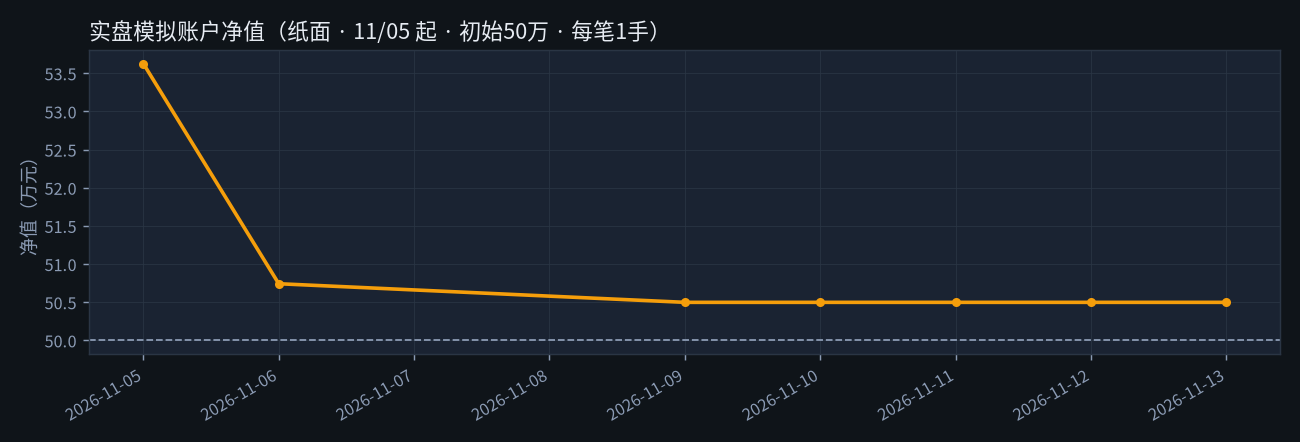
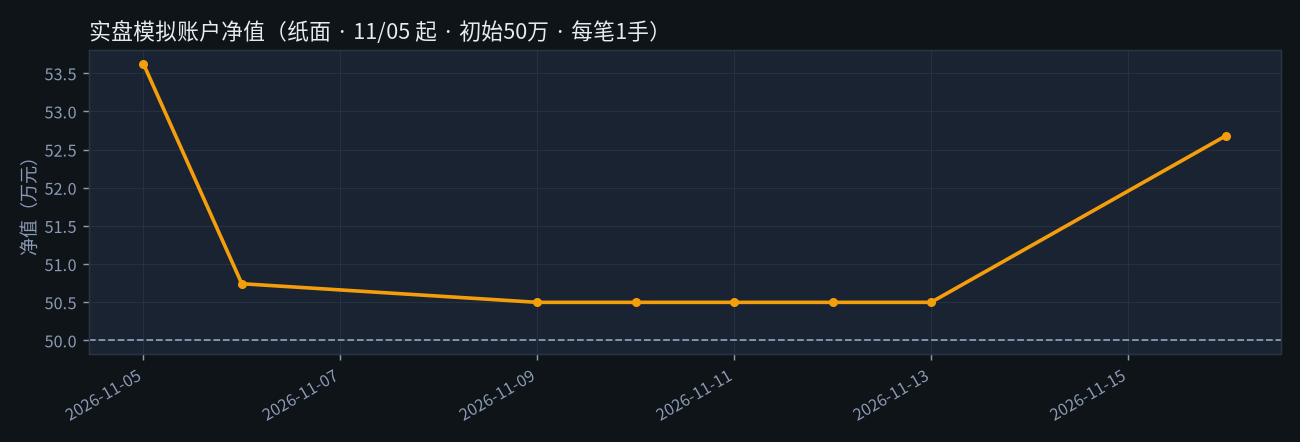
daily: 2026-11-16

diff --git a/reports/2026-11-16.html b/reports/2026-11-16.html
@@ -1,0 +1,186 @@
+<!doctype html>
+<html lang="zh-CN"><head><meta charset="utf-8"><meta name="viewport" content="width=device-width,initial-scale=1">
+<title>2026-11-16 · 股指期货量化系统每日复盘</title>
+<style>:root{
+  --bg:#0f1419;--card:#1a2332;--border:#2a3544;--text:#e7ecf3;--muted:#8b9bb4;
+  --accent:#3b82f6;--ok:#22c55e;--ok-bg:#12261c;--ok-bd:#1e4d36;
+  --watch:#f59e0b;--watch-bg:#2a2110;--watch-bd:#5c4518;
+  --danger:#ef4444;--table-head:#151c27;
+}
+*{box-sizing:border-box}
+body{
+  margin:0;font-family:-apple-system,BlinkMacSystemFont,"Segoe UI","PingFang SC","Hiragino Sans GB","Microsoft YaHei",sans-serif;
+  background:var(--bg);color:var(--text);line-height:1.65;font-size:15.5px;
+}
+.wrap{max-width:820px;margin:0 auto;padding:24px 16px 56px}
+a{color:var(--accent)}
+.topnav{margin-bottom:18px;font-size:.9rem}
+.topnav a{text-decoration:none}
+header h1{font-size:1.45rem;margin:0 0 6px;font-weight:700}
+header .sub{color:var(--muted);margin:0 0 14px;font-size:.92rem}
+.badge{
+  display:inline-block;padding:3px 10px;border-radius:999px;font-size:.78rem;font-weight:650;
+  background:#1e3a5f;color:#93c5fd;margin-right:6px;
+}
+.disclaimer{
+  padding:12px 14px;border:1px solid var(--border);border-radius:10px;
+  background:#151c27;color:var(--muted);font-size:.88rem;margin-bottom:28px;
+}
+h2{
+  font-size:1.12rem;margin:32px 0 12px;padding-bottom:8px;
+  border-bottom:1px solid var(--border);font-weight:700;
+}
+h3{font-size:1rem;margin:20px 0 10px;font-weight:650}
+p,li{color:var(--text)}
+.muted{color:var(--muted)}
+.lead{font-size:.98rem;margin:0 0 16px}
+table{
+  width:100%;border-collapse:collapse;font-size:.9rem;margin:10px 0 16px;
+  background:var(--card);border-radius:10px;overflow:hidden;border:1px solid var(--border);
+}
+th,td{padding:10px 12px;text-align:left;border-bottom:1px solid var(--border);vertical-align:top}
+th{background:var(--table-head);color:var(--muted);font-weight:600;white-space:nowrap}
+tr:last-child td{border-bottom:none}
+td.num,th.num{text-align:right;font-variant-numeric:tabular-nums}
+.chart{
+  display:block;width:100%;max-width:100%;height:auto;border-radius:12px;
+  border:1px solid var(--border);margin:12px 0 8px;background:#111;
+}
+.cap{font-size:.8rem;color:var(--muted);margin:0 0 18px}
+.grid{display:grid;gap:14px}
+@media(min-width:640px){.grid-2{grid-template-columns:1fr 1fr}}
+.cmd{
+  border-radius:14px;padding:16px 16px 14px;border:1px solid var(--border);
+  background:var(--card);margin-bottom:14px;
+}
+.cmd.open{border-color:var(--ok-bd);background:linear-gradient(180deg,var(--ok-bg),var(--card))}
+.cmd.watch{border-color:var(--watch-bd);background:linear-gradient(180deg,var(--watch-bg),var(--card))}
+.cmd .head{display:flex;flex-wrap:wrap;align-items:center;gap:8px;margin-bottom:10px}
+.cmd .name{font-size:1.05rem;font-weight:700;margin:0}
+.pill{
+  font-size:.72rem;font-weight:700;padding:3px 8px;border-radius:999px;letter-spacing:.02em;
+}
+.pill.open{background:#14532d;color:#86efac}
+.pill.watch{background:#78350f;color:#fcd34d}
+.pill.alt{background:#1e3a5f;color:#93c5fd}
+.kv{width:100%;border:none;background:transparent;margin:0}
+.kv th,.kv td{border:none;border-bottom:1px dashed #2a3544;padding:8px 0;background:transparent}
+.kv th{width:5.5em;color:var(--muted);font-weight:600}
+.kv tr:last-child th,.kv tr:last-child td{border-bottom:none}
+.rules{
+  padding:14px 16px;border-radius:12px;border:1px solid var(--border);
+  background:var(--card);margin:10px 0;
+}
+.rules ul{margin:8px 0 0;padding-left:1.2em}
+.rules li{margin:6px 0}
+.evidence{
+  padding:14px 16px;border-radius:12px;border:1px solid #1e3a5f;
+  background:#121a28;margin:12px 0 18px;
+}
+.evidence h3{margin-top:0}
+footer{margin-top:36px;padding-top:14px;border-top:1px solid var(--border);color:var(--muted);font-size:.8rem}
+.strong{font-weight:650;color:#fff}
+.list{display:flex;flex-direction:column;gap:12px}
+.card{display:block;padding:16px 18px;border:1px solid var(--border);border-radius:12px;background:var(--card);text-decoration:none;color:inherit}
+.card:hover{border-color:var(--accent)}
+.card .date{font-size:.82rem;color:var(--accent);font-weight:600;margin-bottom:4px}
+.card .title{font-size:1.05rem;font-weight:650;margin:0 0 6px;border:none;padding:0}
+.card .meta{font-size:.88rem;color:var(--muted);margin:0}
+.tag{display:inline-block;font-size:.72rem;padding:2px 8px;border-radius:999px;background:#1e3a2f;color:#86efac;margin-left:8px}
+table{display:table}
+@media(max-width:600px){table{font-size:.82rem}th,td{padding:8px 6px}}
+</style></head><body><div class="wrap">
+<div class="topnav"><a href="../index.html">← 复盘首页</a></div>
+<header><h1>股指期货量化系统 · 每日复盘</h1>
+<p class="sub">交易日 <strong>2026-11-16（周一）</strong> · 下一交易日 <strong>2026-11-17（周二）</strong></p>
+<span class="badge">主策略 PF-K（IM）</span><span class="badge">纸面模拟账户运行中</span></header>
+<div class="disclaimer"><strong>免责声明</strong>：独立量化系统的研究复盘，仅供参考学习，不构成投资建议，不代下单。期货有杠杆，可能亏损超过预期，行动与盈亏由你本人承担。</div>
+
+<div class="cmd watch"><div class="head"><span class="pill watch">明日指令</span><h3 class="name">明天（2026-11-17（周二））继续持有 空单，不加仓</h3></div>
+<table class="kv"><tbody>
+<tr><th>持仓</th><td>空 1 手，2026-11-16 开盘 6215.0 成交</td></tr>
+<tr><th>止损价</th><td><strong>6537.2</strong>（盘中触及即平）</td></tr>
+<tr><th>今日浮动</th><td>+110.0 点（约 +2.20 万元/手，未扣费）</td></tr>
+<tr><th>最晚平仓</th><td>已持 1 天；最晚 <strong>2026-11-18（周三） 收盘前</strong> 平仓</td></tr></tbody></table></div>
+
+<h2>一、今天发生了什么</h2>
+<p class="lead">IM（中证1000股指期货主连）今天开 6215.0、最高 6226.8、最低 6083.2、收 <strong>6105.0</strong>，
+比昨天收盘 6276.8 <strong>跌 171.8 点（-2.74%）</strong>。开盘相对昨收 低开 61.8 点，盘中震荡走低，收阴线。</p>
+<div class="rules"><ul><li>今天开盘按昨天的信号空 1 手，成交 6215.0，止损 6537.2。</li></ul></div>
+<img class="chart" src="../assets/2026-11-16/im_price_z.png" alt="IM 近100日K线与zSAS">
+<p class="cap">上：IM 近 100 个交易日 K 线和系统历史开平仓点；下：每日 zSAS，越过虚线就出信号。</p>
+
+<h2>二、为什么出这个信号（白话版）</h2>
+<p>今天收盘后算出 <strong>zSAS = -0.89</strong>，在 ±1.25 之间，不触发。</p>
+<div class="rules"><ul>
+<li><b>它在看什么</b>：今天这根K线的涨跌，相对「平时一天能波动多少」（ATR）有多猛；同时扣掉「开盘跳空」那部分——靠隔夜跳空涨上去的不算数，盘中一路买上去的才算。</li>
+<li><b>怎么算</b>：SAS = 0.55 × 今日涨跌幅/ATR比例 − 0.35 × 异常跳空；再和过去 60 天比，变成 zSAS（高出平时几个标准差）。</li>
+<li><b>怎么用</b>：zSAS ≥ +1.25 → 今天涨得「比平常猛得多」且不是靠跳空 → 系统认为短期惯性会延续，次日开盘做多；≤ −1.25 反过来做空；中间不动。</li>
+<li><b>今天</b>：开盘只低开 61.8 点，涨幅主要是盘中走出来的，所以 zSAS 很高。</li>
+</ul></div>
+
+<h2>三、明天具体怎么挂单</h2>
+<p>规则只有一条：<b>次日开盘价成交</b>。所以明早 9:25 集合竞价或 9:30 开盘用市价/对价跟进即可；止损价按你的<b>实际成交价</b>算。</p>
+<p class="muted">明天没有新开仓指令。</p>
+<div class="evidence"><h3>执行提醒（执行建议，未回测）</h3><ul>
+<li>只在开盘这一刻跟；<b>开盘没成交就放弃本笔，不在盘中追高/追低挂天价单</b>。回测只验证过「开盘价成交」。</li>
+<li>止损单可在成交后立刻挂条件单（多单：最新价 ≤ 止损价 触发卖出平仓）。若开盘就跳空越过止损，按开盘价离场（回测同样处理）。</li>
+<li>第3天收盘前没止损，就在尾盘平掉；中间不加仓、不移动止损。</li>
+</ul></div>
+
+<h2>四、实盘模拟账户（11/5起）<span class="sub" style="font-size:.8em;font-weight:400"> · 纸面记账 · 初始50万 · 每笔1手</span></h2>
+<img class="chart" src="../assets/2026-11-16/ledger.png" alt="纸面账户净值曲线">
+<table><tbody>
+<tr><td>当前净值</td><td class="num"><strong>526,844 元</strong></td><td>收益率 <strong>+5.37%</strong> · 最大回撤 -5.83%</td></tr>
+<tr><td>已实现 / 浮动盈亏</td><td class="num">+4,981 / +21,863 元</td><td>已平仓 1 笔 · 胜率 100% · 已付费用滑点约 139 元</td></tr>
+</tbody></table>
+<table><thead><tr><th>状态</th><th>方向</th><th>开仓日/价</th><th>平仓日/价</th><th class="num">费用滑点(点)</th><th class="num">净盈亏(元)</th><th>说明</th></tr></thead><tbody>
+<tr><td>已平仓</td><td>多</td><td>2026-11-05 / 6423.0</td><td>2026-11-09 / 6448.6</td><td class="num">0.7</td><td class="num">+4,981</td><td>时间退出</td></tr>
+<tr><td>持仓中</td><td>空</td><td>2026-11-16 / 6215.0</td><td>未平（今收 6105.0，止损 6537.2）</td><td class="num">0.7</td><td class="num">+21,863</td><td>已持1天/最多3天</td></tr>
+</tbody></table>
+<p class="cap">口径：只跟主策略 PF-K（IM，每笔 1 手）。成交价=日线开盘价/止损价/第3天收盘价；费用=开·平昨万0.23（平今万2.3）+ 往返滑点0.4点；持仓中的浮盈已预扣平仓费用。纸面记账，非真实成交。</p>
+
+<h2>五、历史成绩（样本外，费后）</h2>
+<img class="chart" src="../assets/2026-11-16/oos_equity.png" alt="样本外权益 vs 中证1000">
+<p class="cap">「样本外」= 2025-06-03 之后的数据，参数是在那之前就定死的，这段相当于「模拟实战」。图为 2手/100万 口径累计收益率，对比同期中证1000指数。</p>
+
+<table><thead><tr><th>指标（样本外 2025-06-03 → 2026-11-16，费后）</th><th class="num">回测口径 2手/100万</th><th class="num">重算 1手/50万</th></tr></thead><tbody>
+<tr><td>交易笔数 / 胜率</td><td class="num">45 笔 / 62.2%</td><td class="num">45 笔 / 62.2%</td></tr>
+<tr><td>累计盈利</td><td class="num">+49.0 万元</td><td class="num">+24.5 万元</td></tr>
+<tr><td>策略年化（单利口径）</td><td class="num">+33.7%</td><td class="num">+33.7%</td></tr>
+<tr><td>中证1000 同期年化</td><td class="num">+1.1%</td><td class="num">+1.1%</td></tr>
+<tr><td><strong>超额年化</strong>（策略−指数）</td><td class="num"><strong>+32.6%</strong></td><td class="num">+32.6%</td></tr>
+<tr><td>2025年（6/3起）：策略 / 指数 / 超额</td><td class="num" colspan="2">+33.6% / +25.1% / +8.4%</td></tr>
+<tr><td>2026年至今：策略 / 指数 / 超额</td><td class="num" colspan="2">+15.4% / -20.5% / +35.9%</td></tr>
+</tbody></table>
+<p class="cap">「1手/50万」是把同一批成交按 1 手、50万本金重算：金额减半、收益率相同（因为仓位和本金同比例缩小）。年化=总收益÷年数（单利）。
+数字由冻结参数实时重算。与存档 summary.json（2026-11-04）对照：存档 44 笔 / 胜率 61.4% / 超额年化 28.64%。</p>
+
+<h2>六、风险提示</h2>
+<div class="rules"><ul>
+<li><b>历史 ≠ 未来</b>：样本外只有 45 笔，统计上仍偏薄；任何一段连亏都可能发生。</li>
+<li><b>参数偏脆</b>：持有天数只有 H≈3 天附近站得住，邻域诊断里：持有 2 天时超额年化只剩约 +3%~+4%；持有 4–5 天虽然总数更好看，但 2025 年行情上涨段会明显跑输指数（攻防不再两全）。12 个邻近参数里只有 H=3 的 3 格「攻防两全」——所以严格按 3 天执行，不要自作主张拿更久或更短。</li>
+<li><b>单笔最大亏损</b>：止损 1.5×ATR = 329.2 点 × 200 元/点 ≈ <b>6.6 万元/手</b>（另加费用滑点；跳空越过止损时会更多）。50万账户单笔最坏约 13.2%。</li>
+<li>IM 一手合约价值约 122 万元（价格×200），保证金只占其中一部分，杠杆高，账户资金要留足以免被强平。</li>
+<li>不叠加：持仓期间出现的新信号不接；平仓当天出现的信号也不接（与回测一致）。</li>
+</ul></div>
+
+
+<h2>附：卫星策略 PF-K-IC（中证500股指期货 IC）</h2>
+<div class="rules"><p style="margin:0">同一套指标用在 IC 上，但参数单独冻结：阈值 ±1.5、止损 1.5×ATR、最多拿 5 天。<b>不计入上面的纸面模拟账户</b>，仅供对照。</p>
+<p style="margin:8px 0 0">今日 IC 收 6218.4（-156.6 点）。持空中：2026-11-16 开 6356.0，止损 6664.2，最晚 2026-11-20（周五） 收盘前平。</p>
+<p class="cap" style="margin:8px 0 0">样本外（2手/100万口径）：30 笔，胜率 60.0%，超额年化 vs 中证500 +22.0%。</p></div>
+
+<h2>七、术语小词典</h2>
+<table><tbody>
+<tr><td>ATR</td><td>平均真实波幅（14日），代表「这个品种平时一天大概波动多少点」。今天用于止损的 ATR = 219.4 点。</td></tr>
+<tr><td>zSAS</td><td>系统的核心指标：今天「盘中走出来的涨跌」比过去 60 天平均水平高出几个标准差。±1.25 是开仓线。</td></tr>
+<tr><td>样本外</td><td>定参数时没用过的数据。在样本外还能赚钱，才说明不是「拟合历史」。本系统切点 2025-06-03。</td></tr>
+<tr><td>止损</td><td>预先定好的认错价格，价格碰到就平仓离场，控制单笔最大亏损。</td></tr>
+<tr><td>对价</td><td>买入挂卖一价、卖出挂买一价，保证立刻成交。</td></tr>
+</tbody></table>
+
+<h2>数据与缺口</h2>
+<ul class="muted"><li>今日无数据缺口。</li><li>数据：IM0/IC0 主连日线（v2/*_raw.csv）、中证1000/500 指数日线；参数冻结 PF-K_q1.25_s1.5_RNone_H3 / PF-K-IC_q1.5_s1.5_RNone_H5，未调参。</li></ul>
+<footer>生成：2026-11-16 15:44（北京时间）· 仓库 nandawys/index-quant · 研究参考，不代下单</footer>
+</div></body></html>

diff --git a/index.html b/index.html
@@ -96,15 +96,17 @@ table{display:table}
 <h2>实盘模拟账户（11/5起）<span class="sub" style="font-size:.8em;font-weight:400"> · 纸面记账 · 初始50万 · 每笔1手</span></h2>
 <img class="chart" src="assets/ledger_latest.png" alt="纸面账户净值曲线">
 <table><tbody>
-<tr><td>当前净值</td><td class="num"><strong>504,981 元</strong></td><td>收益率 <strong>+1.00%</strong> · 最大回撤 -5.83%</td></tr>
-<tr><td>已实现 / 浮动盈亏</td><td class="num">+4,981 / +0 元</td><td>已平仓 1 笔 · 胜率 100% · 已付费用滑点约 139 元</td></tr>
+<tr><td>当前净值</td><td class="num"><strong>526,844 元</strong></td><td>收益率 <strong>+5.37%</strong> · 最大回撤 -5.83%</td></tr>
+<tr><td>已实现 / 浮动盈亏</td><td class="num">+4,981 / +21,863 元</td><td>已平仓 1 笔 · 胜率 100% · 已付费用滑点约 139 元</td></tr>
 </tbody></table>
 <table><thead><tr><th>状态</th><th>方向</th><th>开仓日/价</th><th>平仓日/价</th><th class="num">费用滑点(点)</th><th class="num">净盈亏(元)</th><th>说明</th></tr></thead><tbody>
 <tr><td>已平仓</td><td>多</td><td>2026-11-05 / 6423.0</td><td>2026-11-09 / 6448.6</td><td class="num">0.7</td><td class="num">+4,981</td><td>时间退出</td></tr>
+<tr><td>持仓中</td><td>空</td><td>2026-11-16 / 6215.0</td><td>未平（今收 6105.0，止损 6537.2）</td><td class="num">0.7</td><td class="num">+21,863</td><td>已持1天/最多3天</td></tr>
 </tbody></table>
 <p class="cap">口径：只跟主策略 PF-K（IM，每笔 1 手）。成交价=日线开盘价/止损价/第3天收盘价；费用=开·平昨万0.23（平今万2.3）+ 往返滑点0.4点；持仓中的浮盈已预扣平仓费用。纸面记账，非真实成交。</p>
 <h2>每日复盘</h2>
-<nav class="list" aria-label="复盘列表"><a class="card" href="reports/2026-11-13.html"><div class="date">2026-11-13（周五）<span class="tag">最新</span></div><h2 class="title">明日开空1手 IM · 止损=成交价+322.2</h2><p class="meta">IM 收 6276.8（-203.6）· zSAS -1.71 · 账户净值 50.50 万</p></a>
+<nav class="list" aria-label="复盘列表"><a class="card" href="reports/2026-11-16.html"><div class="date">2026-11-16（周一）<span class="tag">最新</span></div><h2 class="title">持空中 · 止损 6537.2</h2><p class="meta">IM 收 6105.0（-171.8）· zSAS -0.89 · 账户净值 52.68 万</p></a>
+<a class="card" href="reports/2026-11-13.html"><div class="date">2026-11-13（周五）</div><h2 class="title">明日开空1手 IM · 止损=成交价+322.2</h2><p class="meta">IM 收 6276.8（-203.6）· zSAS -1.71 · 账户净值 50.50 万</p></a>
 <a class="card" href="reports/2026-11-12.html"><div class="date">2026-11-12（周四）</div><h2 class="title">明日不动 · 空仓观望</h2><p class="meta">IM 收 6480.4（-142.6）· zSAS -0.97 · 账户净值 50.50 万</p></a>
 <a class="card" href="reports/2026-11-11.html"><div class="date">2026-11-11（周三）</div><h2 class="title">明日不动 · 空仓观望</h2><p class="meta">IM 收 6623.0（+106.4）· zSAS 0.95 · 账户净值 50.50 万</p></a>
 <a class="card" href="reports/2026-11-10.html"><div class="date">2026-11-10（周二）</div><h2 class="title">明日不动 · 空仓观望</h2><p class="meta">IM 收 6516.6（+68.0）· zSAS 0.14 · 账户净值 50.50 万</p></a>
